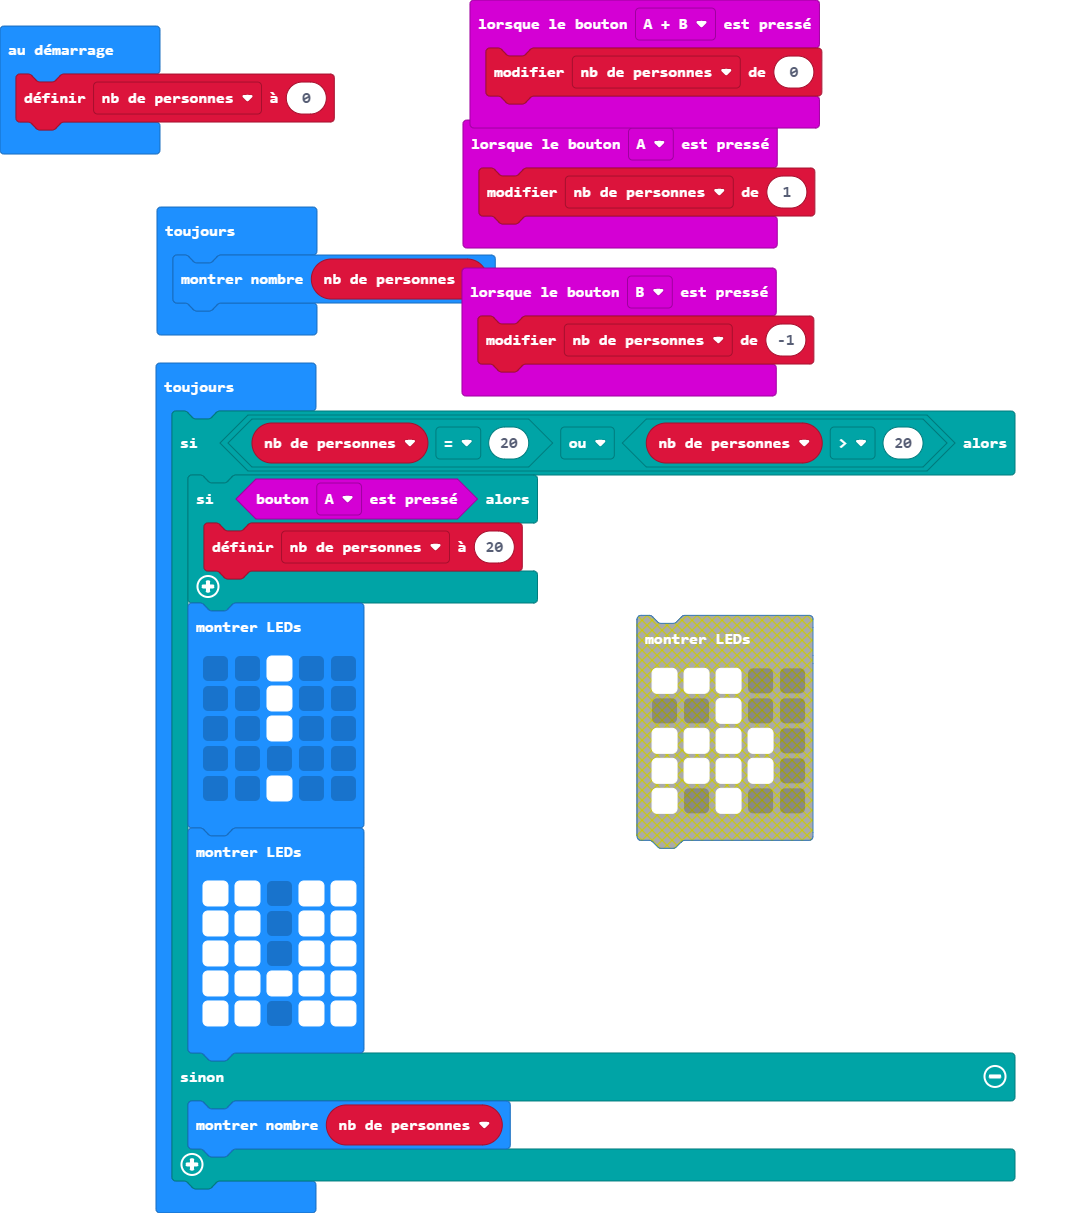
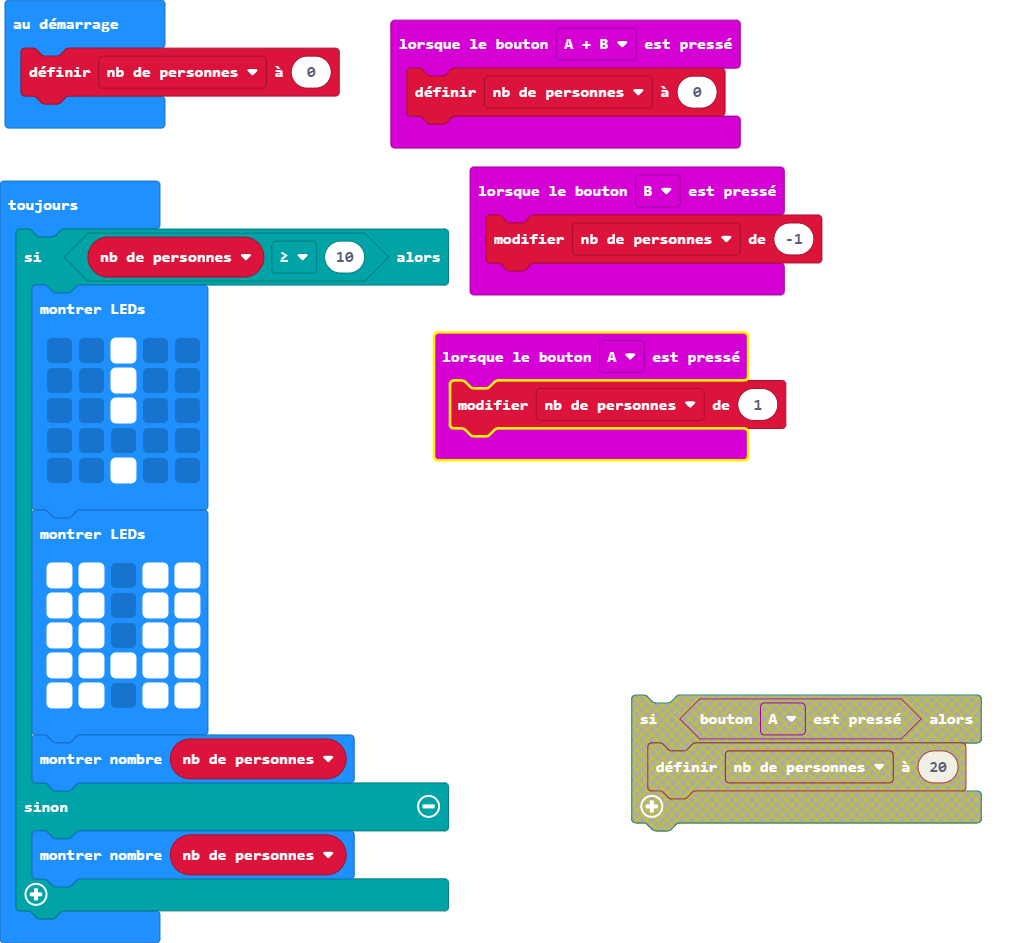
Mise à jour main.blocks, main.ts

diff --git a/main.ts b/main.ts
@@ -2,20 +2,15 @@ input.onButtonPressed(Button.A, function () {
     nb_de_personnes += 1
 })
 input.onButtonPressed(Button.AB, function () {
-    nb_de_personnes += 0
+    nb_de_personnes = 0
 })
 input.onButtonPressed(Button.B, function () {
     nb_de_personnes += -1
 })
 let nb_de_personnes = 0
+nb_de_personnes = 0
 basic.forever(function () {
-    basic.showNumber(nb_de_personnes)
-})
-basic.forever(function () {
-    if (nb_de_personnes == 20 || nb_de_personnes > 20) {
-        if (input.buttonIsPressed(Button.A)) {
-            nb_de_personnes = 20
-        }
+    if (nb_de_personnes >= 10) {
         basic.showLeds(`
             . . # . .
             . . # . .
@@ -30,6 +25,7 @@ basic.forever(function () {
             # # # # #
             # # . # #
             `)
+        basic.showNumber(nb_de_personnes)
     } else {
         basic.showNumber(nb_de_personnes)
     }
